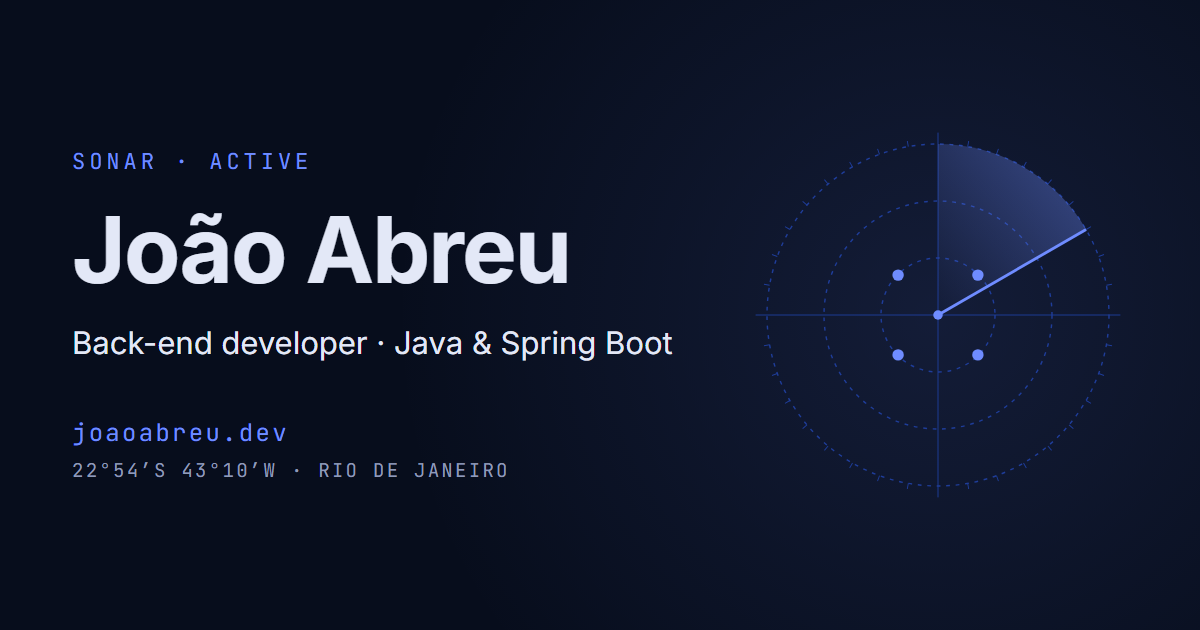
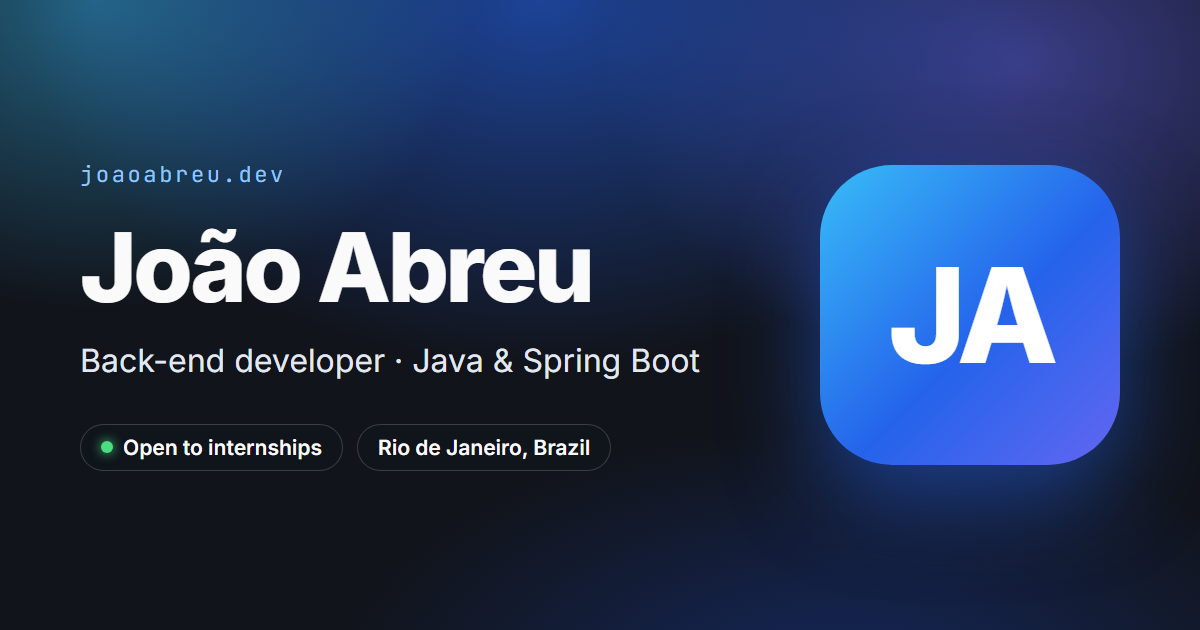
feat: share images in the new look
Slate background with the blue glow, the gradient JA monogram, name, role and the home badges, in English and Portuguese. Drops the radar drawing and its strings, and updates the image alt text.

diff --git a/scripts/og-images.ts b/scripts/og-images.ts
@@ -21,50 +21,40 @@ const font = (path: string) => pathToFileURL(join(root, 'node_modules', path)).h
 const inter = font('@fontsource-variable/inter/files/inter-latin-wght-normal.woff2');
 const mono = font('@fontsource/jetbrains-mono/files/jetbrains-mono-latin-400-normal.woff2');
 
-// Same scope as the site's radar: dashed rings, crosshair, a static sweep and a few contacts.
-const rings = [60, 120, 180].map((r) => `<circle cx="200" cy="200" r="${r}" class="ring"/>`).join('');
-const ticks = Array.from({ length: 36 }, (_, i) => i * 10)
-	.map((d) => `<line x1="200" y1="${d % 90 === 0 ? 8 : 14}" x2="200" y2="20" transform="rotate(${d} 200 200)" class="axis"/>`)
-	.join('');
-const blips = [
-	[242, 158],
-	[242, 242],
-	[158, 242],
-	[158, 158],
-]
-	.map(([x, y]) => `<circle cx="${x}" cy="${y}" r="6" class="blip"/>`)
-	.join('');
-
+// The site's look: slate background under a blue glow (like the wallpapers), the gradient "JA"
+// monogram, name, role and the two badges from the home page.
 function page(locale: (typeof locales)[number]) {
 	const t = ui[locale];
 	return `<!doctype html><html><head><meta charset="utf-8"><style>
 @font-face{font-family:Inter;src:url(${inter}) format('woff2');font-weight:100 900}
 @font-face{font-family:Mono;src:url(${mono}) format('woff2')}
-html,body{margin:0;width:1200px;height:630px;overflow:hidden;background:#070D1C;color:#E3E8F7}
-body{display:grid;grid-template-columns:1fr 380px;align-items:center;gap:48px;padding:0 72px;box-sizing:border-box;
-  background:radial-gradient(circle at 78% 50%,rgba(111,140,255,.12),transparent 55%),#070D1C;font-family:Inter}
-.label{margin:0 0 28px;color:#6F8CFF;font:400 22px Mono;letter-spacing:.18em}
-h1{margin:0;font-size:92px;font-weight:700;letter-spacing:-.02em;line-height:1}
-.role{margin:28px 0 0;font-size:31px;white-space:nowrap}
-.meta{display:grid;gap:10px;margin:56px 0 0;color:#8F9AB8;font:400 19px Mono;letter-spacing:.12em}
-.meta b{color:#6F8CFF;font-weight:400;font-size:24px}
-svg{width:380px;height:380px}
-.ring{fill:none;stroke:#1F3D99;stroke-width:1.5;stroke-dasharray:4 6}.axis{stroke:#1F3D99;stroke-width:1}
-.blip,.origin{fill:#6F8CFF}
+html,body{margin:0;width:1200px;height:630px;overflow:hidden;color:#fafafa}
+body{position:relative;display:grid;grid-template-columns:1fr 300px;align-items:center;gap:56px;padding:0 80px;box-sizing:border-box;
+  font-family:Inter;background:#11141b}
+.glow{position:absolute;inset:0;z-index:-1;background:
+  radial-gradient(45% 70% at 8% 0%,rgba(56,189,248,.45),transparent 70%),
+  radial-gradient(60% 80% at 45% 0%,rgba(37,99,235,.6),transparent 72%),
+  radial-gradient(50% 70% at 85% 10%,rgba(99,102,241,.5),transparent 70%),
+  radial-gradient(60% 60% at 70% 110%,rgba(29,78,216,.35),transparent 70%)}
+.site{margin:0 0 30px;color:#93c5fd;font:400 22px Mono;letter-spacing:.12em}
+h1{margin:0;font-size:96px;font-weight:800;letter-spacing:-.035em;line-height:1}
+.role{margin:26px 0 0;font-size:32px;color:#e2e8f0;white-space:nowrap}
+.badges{display:flex;gap:14px;margin:44px 0 0}
+.badge{display:inline-flex;align-items:center;gap:10px;padding:10px 20px;border:1px solid rgba(255,255,255,.18);border-radius:999px;
+  background:rgba(17,20,27,.55);font-size:21px;font-weight:600}
+.dot{width:12px;height:12px;border-radius:50%;background:#4ade80;box-shadow:0 0 12px #4ade80}
+.mark{display:grid;place-items:center;width:300px;height:300px;border-radius:72px;
+  background:linear-gradient(135deg,#38bdf8,#2563eb 55%,#6366f1);box-shadow:0 30px 90px rgba(37,99,235,.55);
+  color:#fff;font-size:132px;font-weight:800;letter-spacing:-.05em}
 </style></head><body>
+<div class="glow"></div>
 <div>
-  <p class="label">${t['radar.active']}</p>
+  <p class="site">joaoabreu.dev</p>
   <h1>${t['home.heading']}</h1>
   <p class="role">${t['home.role']}</p>
-  <p class="meta"><b>joaoabreu.dev</b><span>${t['panel.position']}</span></p>
+  <p class="badges"><span class="badge"><span class="dot"></span>${t['home.status']}</span><span class="badge">${t['home.location']}</span></p>
 </div>
-<svg viewBox="0 0 400 400">
-  <defs><linearGradient id="g" x1="0" y1="1" x2="1" y2="0"><stop offset="0" stop-color="#6F8CFF" stop-opacity="0"/><stop offset="1" stop-color="#6F8CFF" stop-opacity=".45"/></linearGradient></defs>
-  ${rings}<line x1="20" y1="200" x2="380" y2="200" class="axis"/><line x1="200" y1="20" x2="200" y2="380" class="axis"/>${ticks}
-  <path d="M200 200 L200 20 A180 180 0 0 1 355.9 110 Z" fill="url(#g)"/>
-  <line x1="200" y1="200" x2="355.9" y2="110" stroke="#6F8CFF" stroke-width="3"/>
-  ${blips}<circle cx="200" cy="200" r="5" class="origin"/>
-</svg>
+<div class="mark">JA</div>
 </body></html>`;
 }
 

diff --git a/src/i18n/ui.ts b/src/i18n/ui.ts
@@ -55,8 +55,6 @@ const en = {
 	'footer.navigation': 'Navigation',
 	'footer.social': 'Social',
 	'footer.note': 'Built with Astro. Data from GitHub and DEV.',
-	'panel.position': '22°54′S 43°10′W · RIO DE JANEIRO',
-	'radar.active': 'SONAR · ACTIVE',
 	'home.status': 'Open to internships',
 	'home.location': 'Rio de Janeiro, Brazil',
 	'home.heading': 'João Abreu',
@@ -210,7 +208,7 @@ const en = {
 	'journey.viz.cache': 'cached copy',
 	'home.journeyBody': 'From a commit on GitHub to your screen, step by step, with real numbers from your visit.',
 	'home.journeyCta': 'Follow the journey',
-	'og.alt': 'João Abreu, back-end developer (Java and Spring Boot), next to a radar scope',
+	'og.alt': 'João Abreu, back-end developer (Java and Spring Boot), open to internships in Rio de Janeiro, next to the JA monogram',
 	'notFound.title': 'Page not found - João Abreu',
 	'notFound.label': 'ERROR 404',
 	'notFound.heading': 'Page not found',
@@ -258,8 +256,6 @@ const pt: Record<keyof typeof en, string> = {
 	'footer.navigation': 'Navegação',
 	'footer.social': 'Redes',
 	'footer.note': 'Feito com Astro. Dados do GitHub e do DEV.',
-	'panel.position': '22°54′S 43°10′O · RIO DE JANEIRO',
-	'radar.active': 'SONAR · ATIVO',
 	'home.status': 'Aberto a estágio',
 	'home.location': 'Rio de Janeiro, Brasil',
 	'home.heading': 'João Abreu',
@@ -414,7 +410,7 @@ const pt: Record<keyof typeof en, string> = {
 	'journey.viz.cache': 'cópia em cache',
 	'home.journeyBody': 'De um commit no GitHub até a sua tela, passo a passo, com números reais da sua visita.',
 	'home.journeyCta': 'Acompanhar o caminho',
-	'og.alt': 'João Abreu, desenvolvedor back-end (Java e Spring Boot), ao lado de um radar',
+	'og.alt': 'João Abreu, desenvolvedor back-end (Java e Spring Boot), aberto a estágio no Rio de Janeiro, ao lado do monograma JA',
 	'notFound.title': 'Página não encontrada - João Abreu',
 	'notFound.label': 'ERRO 404',
 	'notFound.heading': 'Página não encontrada',
